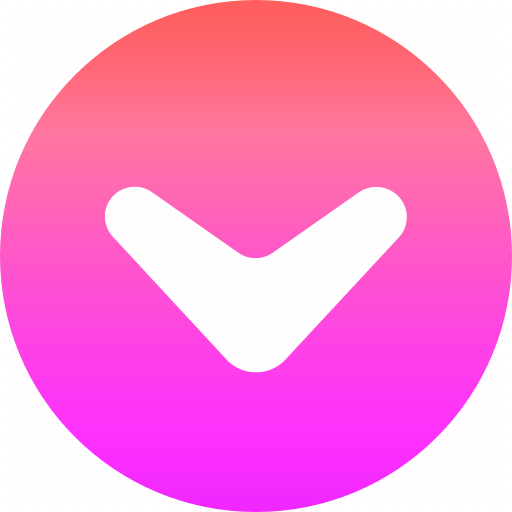
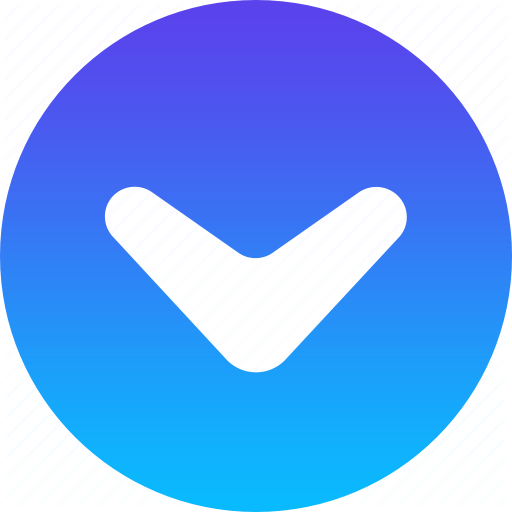
water themed design

diff --git a/index.html b/index.html
@@ -92,7 +92,7 @@
 
     <div class="container">
         <h2>Contact us now </h2>
-        <a href="#" class="cta">Get started</a>
+        <a href="#" class="cta">+919066701488</a>
     </div>
 
 <footer>
